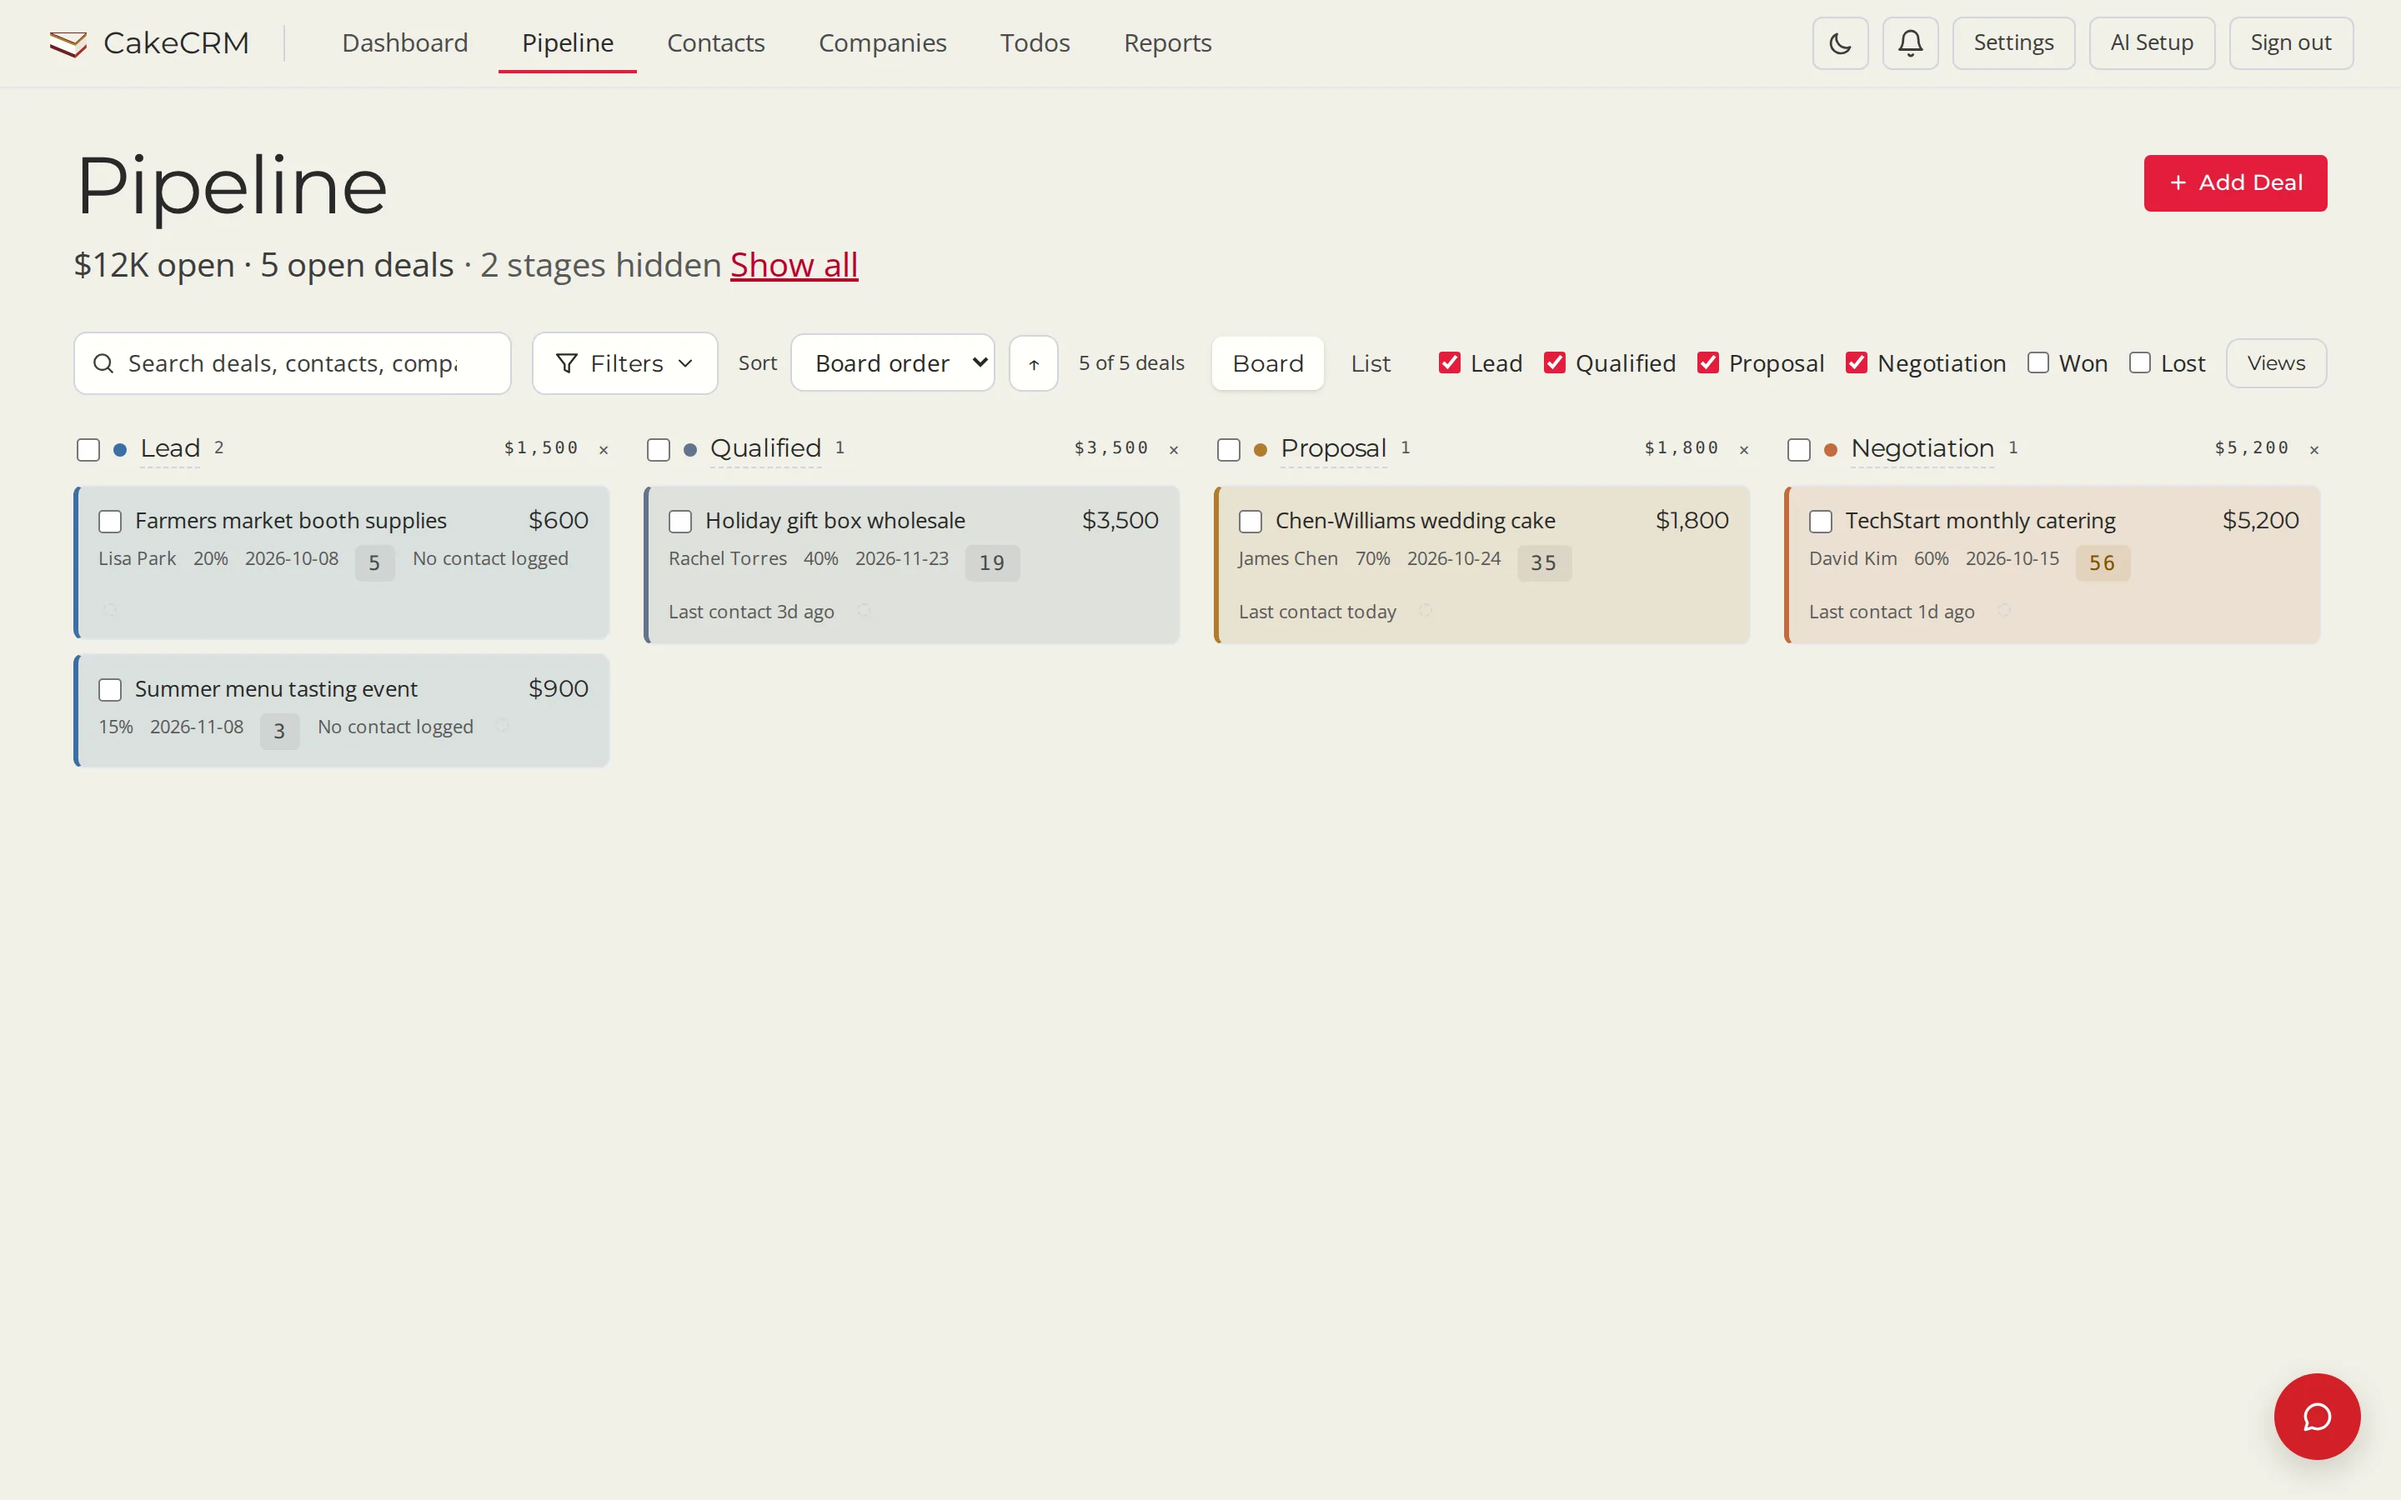
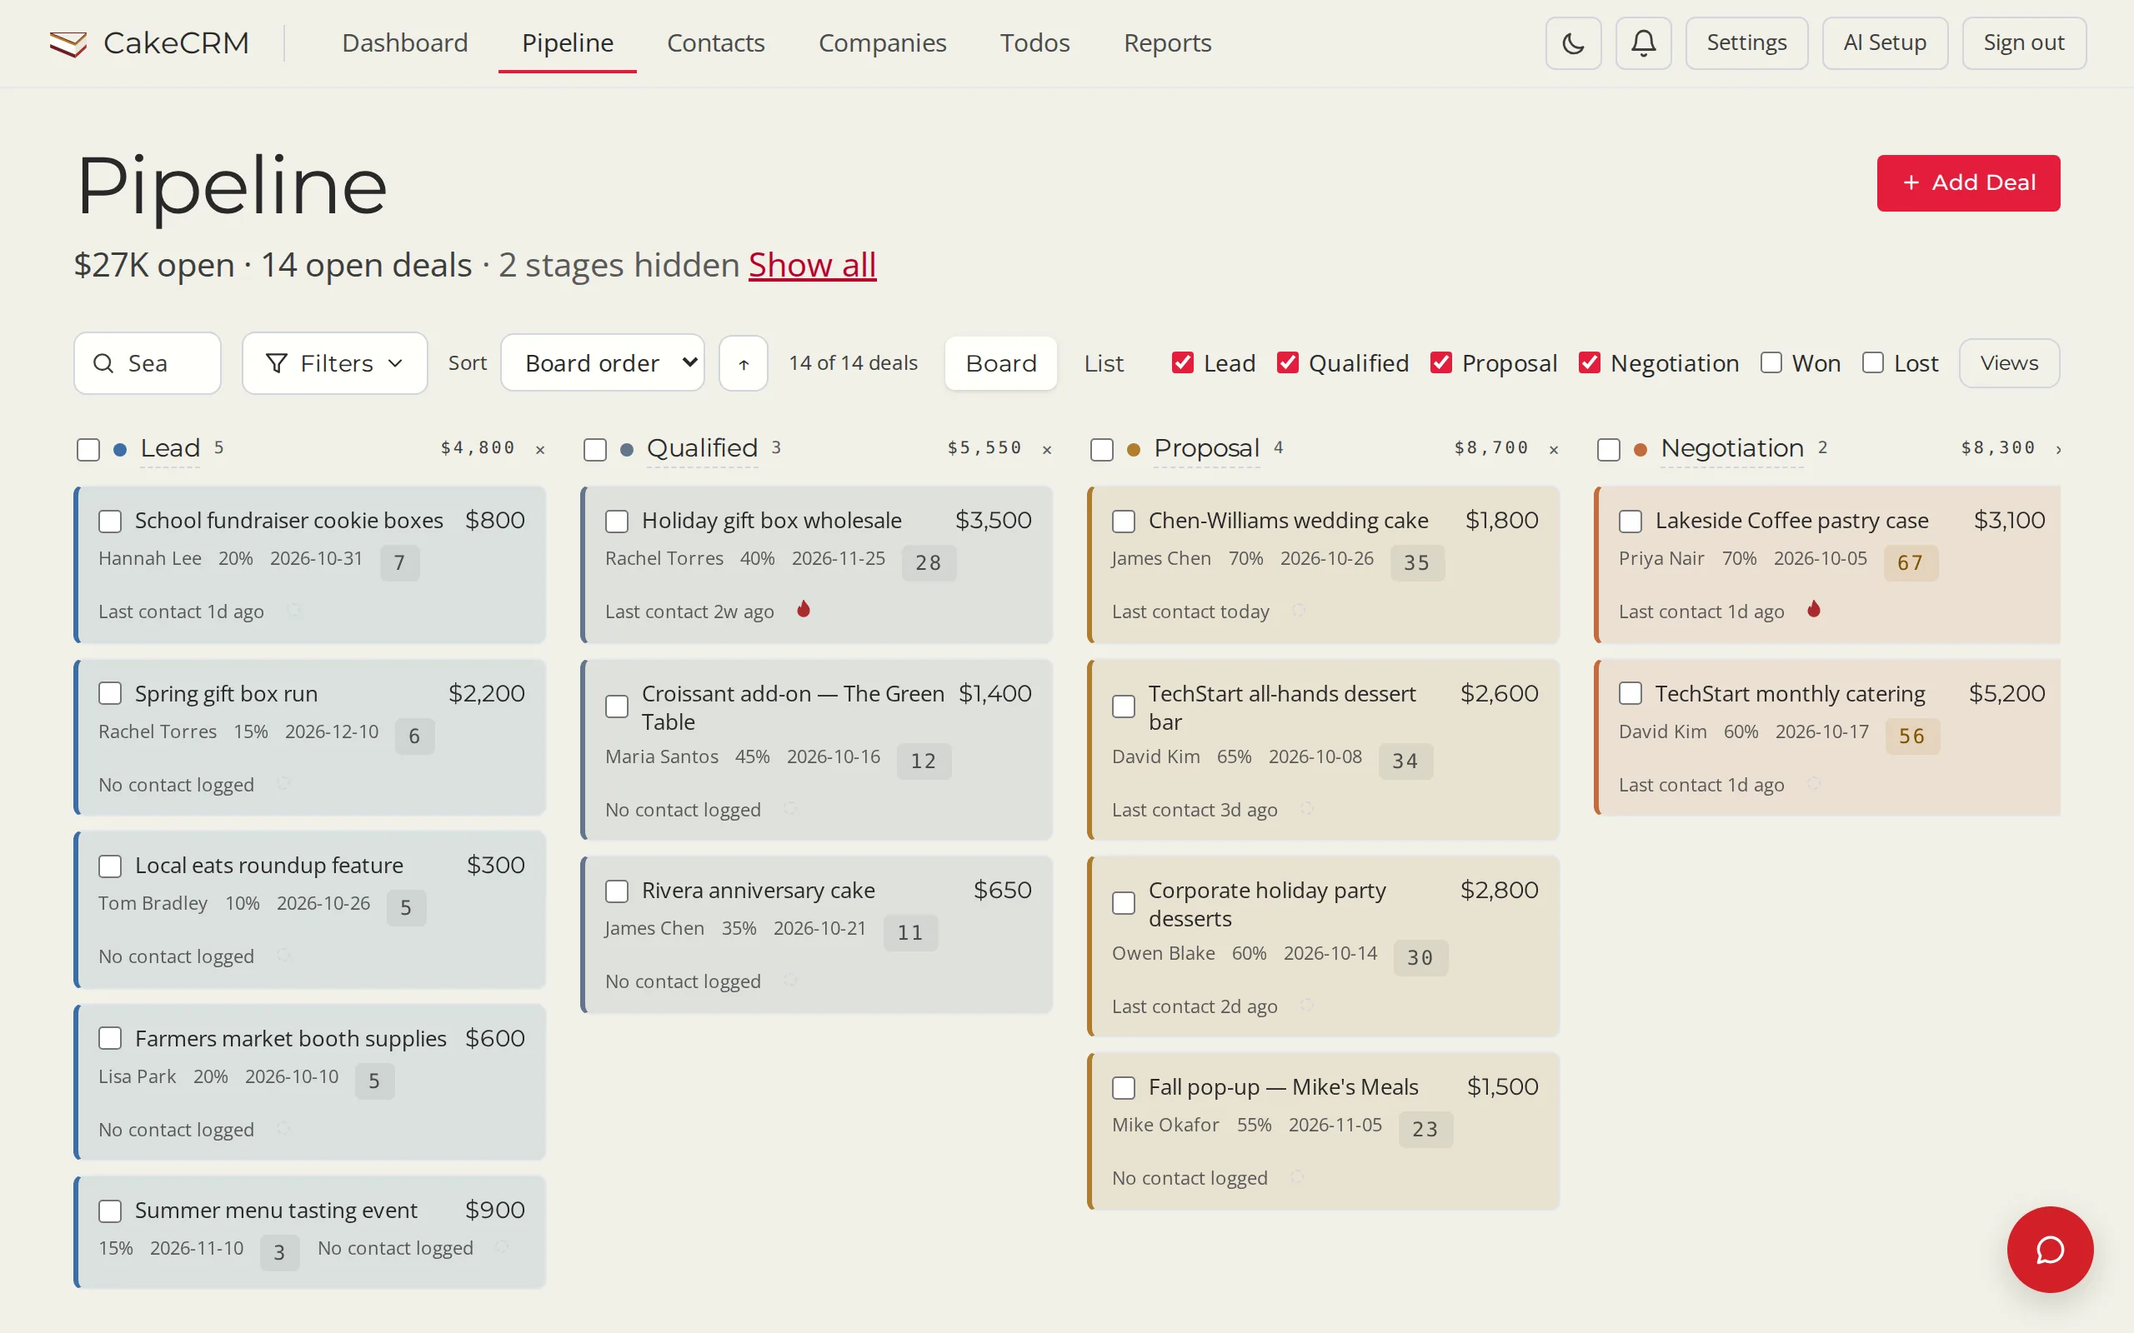
README screenshots: framed light and dark captures of the denser sample data (#229)
auto-merged by /auto-issues-ship-loop-team

diff --git a/website/index.html b/website/index.html
@@ -67,7 +67,7 @@
       <figure class="frame">
         <picture>
           <source srcset="img/dashboard.webp" type="image/webp">
-          <img src="img/dashboard.png" width="1440" height="900" loading="lazy" alt="The CakeCRM dashboard: a Today panel listing an overdue call and a todo due today, above stat tiles for contacts, companies, pipeline value and overdue todos.">
+          <img src="img/dashboard.png" width="1280" height="800" loading="lazy" alt="The CakeCRM dashboard: a Today panel that leads with a hot deal gone quiet, then three overdue todos and one due today, above stat tiles for contacts, companies, pipeline value and overdue todos.">
         </picture>
       </figure>
     </div>
@@ -81,7 +81,7 @@
       <figure class="frame">
         <picture>
           <source srcset="img/pipeline.webp" type="image/webp">
-          <img src="img/pipeline.png" width="1440" height="900" loading="lazy" alt="The CakeCRM pipeline board: open deals as cards in Lead, Qualified, Proposal and Negotiation columns, each showing its value, probability, close date, lead score and last contact, with the Won and Lost stages hidden.">
+          <img src="img/pipeline.png" width="1280" height="800" loading="lazy" alt="The CakeCRM pipeline board: open deals as cards in Lead, Qualified, Proposal and Negotiation columns, each showing its value, probability, close date, lead score and last contact, with the Won and Lost stages hidden.">
         </picture>
       </figure>
     </div>
@@ -95,7 +95,7 @@
       <figure class="frame">
         <picture>
           <source srcset="img/deal.webp" type="image/webp">
-          <img src="img/deal.png" width="1440" height="900" loading="lazy" alt="A deal card open over the CakeCRM pipeline: title, value, stage, contact, company, owner, temperature, probability, lead score and expected close, then Call, Email, Meeting and Note buttons, the activity history and a note box.">
+          <img src="img/deal.png" width="1280" height="800" loading="lazy" alt="A deal card open over the CakeCRM pipeline: title, value, stage, contact, owner, temperature, probability, lead score and expected close, then Call, Email, Meeting and Note buttons, the activity history and a note box.">
         </picture>
       </figure>
     </div>
@@ -109,14 +109,14 @@
       <figure class="frame">
         <picture>
           <source srcset="img/todos-today.webp" type="image/webp">
-          <img src="img/todos-today.png" width="1440" height="900" loading="lazy" alt="The CakeCRM Todos page on its Today tab: an Overdue section with a call to make, a Due today section with a menu to send, each linked to its contact or deal, and an add-to-inbox box above them.">
+          <img src="img/todos-today.png" width="1280" height="800" loading="lazy" alt="The CakeCRM Todos page on its Today tab: an Overdue section with three todos, a Due today section with two more, each linked to its contact or deal, and an add-to-inbox box above them.">
         </picture>
         <figcaption>Today: what is overdue and what is due, nothing else.</figcaption>
       </figure>
       <figure class="frame">
         <picture>
           <source srcset="img/todos-inbox.webp" type="image/webp">
-          <img src="img/todos-inbox.png" width="1440" height="900" loading="lazy" alt="The CakeCRM Todos inbox showing one captured item on a triage card with three numbered steps: what kind of action, add detail, and set context, with two more items waiting below.">
+          <img src="img/todos-inbox.png" width="1280" height="800" loading="lazy" alt="The CakeCRM Todos inbox showing the first of three captured items on a triage card with three numbered steps: what kind of action, add detail, and set context.">
         </picture>
         <figcaption>Inbox: three numbered steps turn a captured thought into a next action.</figcaption>
       </figure>
@@ -131,7 +131,7 @@
       <figure class="frame">
         <picture>
           <source srcset="img/deal-baker.webp" type="image/webp">
-          <img src="img/deal-baker.png" width="1440" height="900" loading="lazy" alt="A deal open in CakeCRM with the Baker assistant drawer beside it, answering 'What should my next step be on this deal?' with the follow-up that is already scheduled, why it is the right move, and what to cover on that call.">
+          <img src="img/deal-baker.png" width="1600" height="1000" loading="lazy" alt="A deal open in CakeCRM with the Baker assistant drawer beside it, answering 'What should my next step be on this deal?' with the call to make today, what the CRM already knows about it, and the deal's health.">
         </picture>
       </figure>
     </div>

diff --git a/scripts/frame_readme_shots.py b/scripts/frame_readme_shots.py
@@ -1,0 +1,73 @@
+"""Frame demo screenshots for the README.
+
+Takes the raw 2x captures the website uses (light theme, launcher folded) and puts
+each one in a browser window with a soft shadow on the app's own page ground, in a
+light and a dark variant, so the README reads right under either GitHub theme.
+Output is a 1x palettised PNG per variant under docs/brand/readme/.
+
+    python scripts/frame_readme_shots.py website/img docs/brand/readme dashboard pipeline ...
+
+Colours are the light/dark `--color-ck-*` tokens from frontend/src/index.css; re-copy
+them here when the palette changes (the same rule website/style.css follows).
+"""
+import sys
+from pathlib import Path
+
+from PIL import Image, ImageDraw, ImageFilter
+
+GROUND = {"light": (0xF1, 0xF1, 0xE8), "dark": (0x1C, 0x1B, 0x19)}   # ck-bg
+CHROME = {"light": (0xE6, 0xE4, 0xDB), "dark": (0x2A, 0x28, 0x26)}   # title bar (dark: ck-card)
+LINE = {"light": (0xD1, 0xD5, 0xDB), "dark": (0x4A, 0x48, 0x45)}     # ck-line-strong
+DOTS = {"light": (0xB8, 0xB5, 0xAA), "dark": (0x5C, 0x59, 0x54)}
+SHADOW = {"light": (40, 30, 20, 70), "dark": (0, 0, 0, 150)}
+
+S = 2  # captures are 2x; the CSS-px constants below are scaled by S
+PAD, RADIUS, BAR, BORDER = 56, 12, 36, 1
+
+
+def _rounded_mask(size, r):
+    m = Image.new("L", size, 0)
+    ImageDraw.Draw(m).rounded_rectangle((0, 0, size[0] - 1, size[1] - 1), r, fill=255)
+    return m
+
+
+def frame(shot: Image.Image, theme: str) -> Image.Image:
+    shot = shot.convert("RGB")
+    w, h = shot.size
+    bar = BAR * S
+    win = Image.new("RGB", (w, h + bar), CHROME[theme])
+    d = ImageDraw.Draw(win)
+    for x in (18, 36, 54):
+        d.ellipse((x * S - 5 * S, bar // 2 - 5 * S, x * S + 5 * S, bar // 2 + 5 * S), fill=DOTS[theme])
+    d.line((0, bar - 1, w, bar - 1), fill=LINE[theme], width=S)
+    win.paste(shot, (0, bar))
+
+    r = RADIUS * S
+    bordered = Image.new("RGB", (w + 2 * BORDER * S, win.height + 2 * BORDER * S), LINE[theme])
+    bordered.paste(win, (BORDER * S, BORDER * S), _rounded_mask(win.size, r - BORDER * S))
+    bordered.putalpha(_rounded_mask(bordered.size, r))
+
+    pad = PAD * S
+    canvas = Image.new("RGBA", (bordered.width + 2 * pad, bordered.height + 2 * pad), GROUND[theme] + (255,))
+    shadow = Image.new("RGBA", canvas.size, (0, 0, 0, 0))
+    ImageDraw.Draw(shadow).rounded_rectangle(
+        (pad, pad + 14 * S, pad + bordered.width, pad + 14 * S + bordered.height), r, fill=SHADOW[theme])
+    canvas.alpha_composite(shadow.filter(ImageFilter.GaussianBlur(18 * S)))
+    canvas.alpha_composite(bordered, (pad, pad))
+    return canvas.convert("RGB")
+
+
+def main(src: Path, out: Path, names: list[str]) -> None:
+    out.mkdir(parents=True, exist_ok=True)
+    for name in names:
+        shot = Image.open(src / f"{name}.webp")  # the 2x master; the PNG beside it is 1x
+        for theme in ("light", "dark"):
+            img = frame(shot, theme)
+            img = img.resize((img.width // S, img.height // S), Image.LANCZOS)
+            target = out / f"{name}-{theme}.png"
+            img.convert("P", palette=Image.ADAPTIVE, colors=256).save(target, optimize=True)
+            print(target, img.size, target.stat().st_size // 1024, "KB")
+
+
+if __name__ == "__main__":
+    main(Path(sys.argv[1]), Path(sys.argv[2]), sys.argv[3:])

diff --git a/README.md b/README.md
@@ -16,16 +16,41 @@ with a sales assistant that works your pipeline for you.
 > issue on GitHub and say so.
 
 <p align="center">
-  <img src="website/img/deal-baker.png" alt="A deal open in CakeCRM with Baker's drawer beside it, answering what the next step should be, grounded in the deal's own notes and activity." width="900">
+  <picture>
+    <source media="(prefers-color-scheme: dark)" srcset="docs/brand/readme/deal-baker-dark.png">
+    <img src="docs/brand/readme/deal-baker-light.png" alt="A deal open in CakeCRM with Baker beside it, answering what the next step should be from the deal's own notes, activity and todos." width="900">
+  </picture>
 </p>
 
 <p align="center">
-  <img src="website/img/dashboard.png" alt="Dashboard: the Today list of what is overdue and due, above the pipeline number and the stats that matter." width="440">
-  <img src="website/img/pipeline.png" alt="Pipeline board: every open deal by stage, with value, close date and last contact on each card." width="440">
+  <picture>
+    <source media="(prefers-color-scheme: dark)" srcset="docs/brand/readme/dashboard-dark.png">
+    <img src="docs/brand/readme/dashboard-light.png" alt="Dashboard: the Today list leads with a hot deal that has gone quiet, then what is overdue and due, above the pipeline number and the stats that matter." width="440">
+  </picture>
+  <picture>
+    <source media="(prefers-color-scheme: dark)" srcset="docs/brand/readme/pipeline-dark.png">
+    <img src="docs/brand/readme/pipeline-light.png" alt="Pipeline board: every open deal by stage, with value, probability, close date and last contact on each card. Won and lost stay hidden until asked for." width="440">
+  </picture>
 </p>
 <p align="center">
-  <img src="website/img/todos-today.png" alt="Todos, Today tab: what is overdue and what is due, each linked to its contact or deal." width="440">
-  <img src="website/img/todos-inbox.png" alt="Todos, Inbox: the triage card that turns a captured thought into a next action in three numbered steps." width="440">
+  <picture>
+    <source media="(prefers-color-scheme: dark)" srcset="docs/brand/readme/deal-dark.png">
+    <img src="docs/brand/readme/deal-light.png" alt="A deal opened over the board: who, how much, how likely, when, the calls and emails so far, and a box for a note." width="440">
+  </picture>
+  <picture>
+    <source media="(prefers-color-scheme: dark)" srcset="docs/brand/readme/contacts-dark.png">
+    <img src="docs/brand/readme/contacts-light.png" alt="Contacts: one list with company, email, phone, last contact, status and lead score, sortable and filterable." width="440">
+  </picture>
+</p>
+<p align="center">
+  <picture>
+    <source media="(prefers-color-scheme: dark)" srcset="docs/brand/readme/todos-today-dark.png">
+    <img src="docs/brand/readme/todos-today-light.png" alt="Todos, Today tab: what is overdue and what is due, each linked to its contact or deal." width="440">
+  </picture>
+  <picture>
+    <source media="(prefers-color-scheme: dark)" srcset="docs/brand/readme/todos-inbox-dark.png">
+    <img src="docs/brand/readme/todos-inbox-light.png" alt="Todos, Inbox: the triage card that turns a captured thought into a next action in three numbered steps." width="440">
+  </picture>
 </p>
 
 ## The tour

diff --git a/AGENTS.md b/AGENTS.md
@@ -2857,10 +2857,18 @@ one-click in the cloud (the template provisions a PostgreSQL service).
   family here means adding its notice there in the same commit.
   **Screenshots come ONLY from the demo instance after a reset to the fictional sample
   data** (`POST /api/crm/clear-all` → `/load-sample-data`), shot with Playwright at
-  1440×900 light at 2× (WebP at 2880 wide, quality 82; PNG fallback downscaled to 1440
-  and palettised) — dashboard, pipeline board, a deal card over the board, and a deal with
-  the Baker drawer; the hero is a mark + wordmark lockup (see **Brand mark**), not a
-  screenshot, and the theme of the copy is simplicity. The genericization guard scans
+  1280×800 light at 2× with the launcher folded (WebP at native 2× width, quality 82; PNG
+  fallback at 1× and palettised) — dashboard, pipeline board, a deal card over the board,
+  the Todos Today and Inbox tabs, and a deal with the Baker drawer, that last one at
+  1600×1000 so the drawer sits beside the sheet instead of over it; the hero is a mark +
+  wordmark lockup (see **Brand mark**), not a screenshot, and the theme of the copy is
+  simplicity. **The README uses the same captures, framed**: `scripts/frame_readme_shots.py`
+  puts each WebP master in a browser window on the app's own page ground, light and dark,
+  and writes 1× PNGs to `docs/brand/readme/`, which the README picks between with
+  `<picture>`; re-run it whenever the site images are re-shot, and re-copy its colour
+  constants when the palette changes. The Contacts frame is README-only, so
+  `website/img/contacts.webp` is a master the site never displays; it lives beside the
+  others so one directory holds every source. The genericization guard scans
   text, not pixels, so a real prospect name in a PNG would be invisible to CI and
   permanent in history. Strip the example-data banner and the bell badge before shooting;
   the Baker shot uses a deal-scoped quick action, because an install-wide question can

diff --git a/docs/brand/README.md b/docs/brand/README.md
@@ -10,6 +10,7 @@ that cannot take a vector (app-store listings, README badges, chat avatars, soci
 | `logo-mark-128.png`, `logo-mark-256.png` | Avatars, README, docs. |
 | `logo-mark-180.png` | Apple touch icon size. |
 | `logo-mark-512.png`, `logo-mark-1024.png` | Store listings, social previews, print. |
+| `readme/*-{light,dark}.png` | The README screenshots: the website captures framed on the light and dark page ground by `scripts/frame_readme_shots.py`. Regenerate after any re-shoot. |
 | `lockup-light.png`, `lockup-dark.png` | Mark + "CakeCRM" wordmark (Montserrat 700) on the app's light and dark page colours, 2× resolution. |
 
 Colours are the app's own tokens from `frontend/src/index.css`: card and raised for the
